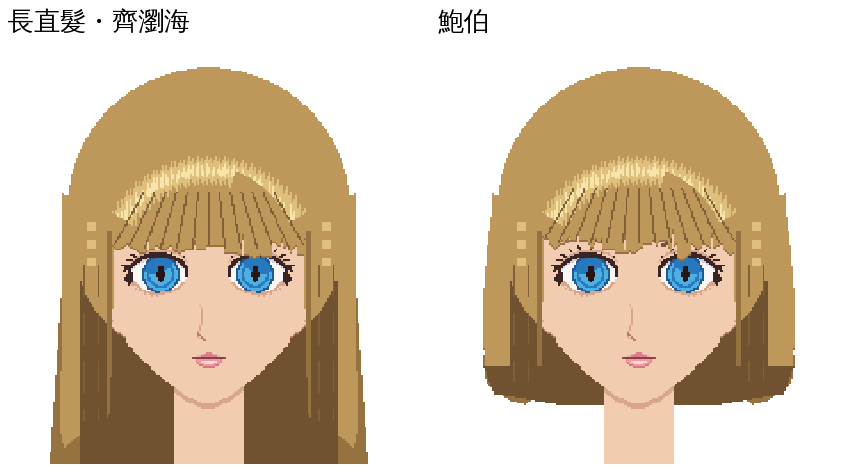
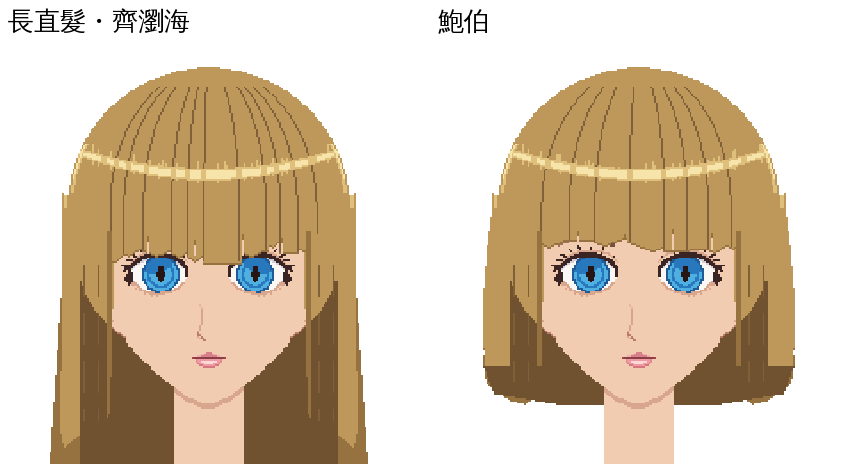
droom 臉模 v2：髮型修正（使用者）——瀏海髮束沿著球的經線從髮旋往下（順著頭的圓弧，分界間隔不一），不再像直的卡牌；反光改成一條細的白色光環：兩端貼著頭髮外緣、中間往下彎、在髮束分界斷開、上下拉出短亮絲，兩端沿外緣往下帶一段；samples/hair_hime_bob.png、hair_hime_zoom.png
Claude-Session: https://claude.ai/code/session_01FDQv7ddy7JMjePn6AqJ3VJ

diff --git a/web/droom/face_mold/v2/hair_one.py b/web/droom/face_mold/v2/hair_one.py
@@ -18,26 +18,36 @@ def arc(r,a0,a1,n=80):return [(CX+r*math.cos(a0+(a1-a0)*k/n),CY+r*math.sin(a0+(a
 RO=R+7
 HS=os.environ.get('HS','hime')   # 髮型：hime 長直髮齊瀏海、bob 鮑伯
 BANG_Y=136 if os.environ.get('HS','hime')!='bob' else 133   # 瀏海下緣（剛好在眼睛上面、蓋到眉毛）
+def mer_x(phi,y):
+  # 經線：髮旋在球頂，phi＝往左右的角度；y 在赤道以上照球面算，赤道以下（瀏海垂下來）就直直往下
+  c=max(-1,min(1,(CY-y)/RO));th=math.acos(c)
+  if y>CY:th=math.pi/2
+  return CX+RO*.96*math.sin(th)*math.sin(math.radians(phi))
+MER=[]
 def regions():
   # 瀏海：頭髮外緣的上半圈，往下到 BANG_Y；兩邊在太陽穴收進去
   top=pm(arc(RO,math.pi*1.06,math.pi*1.94)+[(CX+60,BANG_Y-4),(CX-60,BANG_Y-4)])
   bang=np.zeros((N,N),bool)
-  # 瀏海下緣（使用者：太整齊一樣 → 髮束寬窄不一、長短不一、有的尖有的鈍、偶爾一束特別長或往旁邊撇）
+  # 瀏海（使用者 2026-11-19：頭髮從頭頂的髮旋往下、沿著頭的圓弧，不是像卡牌那樣直的）
+  # 髮束的分界＝球上的經線（從髮旋出發、往兩邊鼓出去再往下），分界的間隔不一樣；
+  # 每兩條經線中間是一束，尾巴有尖有鈍、長短不一
+  global MER
   import random
   rnd=random.Random(7 if HS!='bob' else 11)
-  x=CX-62;tips={}
-  while x<=CX+62:
-    w=rnd.choice([4,5,6,7,8,9,10,12]);L=rnd.choice([0,1,2,3,4,5,6,-1,-2]) if HS=='bob' else rnd.choice([0,1,2,3,4,-1,-2,5])
-    if rnd.random()<.15:L+=4                              # 偶爾一束比較長
-    pointed=rnd.random()<.6;lean=rnd.choice([-1,0,0,1])
-    for i in range(w):
-      if x+i>CX+62:break
-      u=(i+.5)/w                                           # 0～1 在這束裡的位置
-      drop=L+(3*(1-abs(2*u-1-lean*.4)) if pointed else 1.2)   # 尖的：中間最長；鈍的：平
-      tips[x+i]=BANG_Y-2+drop
-    x+=w
+  MER=[];p=-56
+  while p<56:MER.append(p);p+=rnd.choice([7,8,9,10,12,13,15])
+  MER.append(56)
+  tips={}
+  for i in range(len(MER)-1):
+    x0,x1=mer_x(MER[i],BANG_Y),mer_x(MER[i+1],BANG_Y)
+    L=rnd.choice([0,1,2,3,4,5,-1,-2]);L+=4 if rnd.random()<.15 else 0
+    pointed=rnd.random()<.65;lean=rnd.choice([-1,0,0,1])
+    for x in range(int(math.floor(x0)),int(math.ceil(x1))+1):
+      u=(x+.5-x0)/max(1,x1-x0);u=min(1,max(0,u))
+      drop=L+(3.5*(1-abs(2*u-1-lean*.4)) if pointed else 1.2)
+      tips[x]=max(tips.get(x,0),BANG_Y-2+drop)
   for x in range(CX-62,CX+63):
-    tip=tips[x]
+    tip=tips.get(x,BANG_Y-2)
     if abs(x-CX)>52:tip-=int((abs(x-CX)-52)*.9)          # 兩端往上收、接到鬢角
     for y in range(int(CY-RO*0.6),int(tip)):bang[y,x]=True
   cap=pm(arc(RO,math.pi,2*math.pi)+[(CX+RO,CY),(CX-RO,CY)])
@@ -97,32 +107,44 @@ def render(img,stage):
   for x,h in((CX-34,8),(CX-8,6),(CX+19,9),(CX+41,7)):
     for y in range(BANG_Y-h,BANG_Y+3):
       if bangs[y,x]:out[y,x]=(242,204,177) if y>BANG_Y-h+2 else C['sh']
-  # 7 髮絲：從髮旋放射到瀏海下緣、兩側直直往下（暗色細線，只畫中下段，上面讓亮的帶子乾淨）
-  for x in range(CX-54,CX+55,9):
-    for t in np.linspace(.68,1,40):
-      px=round(W[0]+(x-W[0])*t);py=round(W[1]+(BANG_Y-2-W[1])*t)
-      if bangs[py,px] and tuple(out[py,px])==C['mid']:out[py,px]=C['ln']
+  # 7 髮絲：沿著經線（從髮旋順著頭的圓弧往下，到瀏海下緣），只畫中下段
+  for ph in MER[1:-1]:
+    for y in range(int(CY-RO*.86),BANG_Y+6):
+      x=round(mer_x(ph,y))
+      if bangs[y,x] and tuple(out[y,x])==C['mid']:out[y,x]=C['ln']
   for s in(-1,1):
     for x in(CX+s*62,CX+s*70):
       for y in range(140,232 if HS!='bob' else 210):
         if sides[y,x] and (y//9)%3!=0:out[y,x]=C['ln']
-  # 5＋8 亮：頭頂一圈寬的亮帶（光從左上，左邊亮一點），帶子裡再一條條白色高光（天使環，跟著髮束斷開）
-  for y in range(N):
-    for x in range(N):
-      if not bangs[y,x] or y>BANG_Y-6:continue
-      HY=CY+34                                              # 亮帶的圓心往下移（使用者：反光太上面）
-      r=math.hypot(x-CX,y-HY);a=math.degrees(math.atan2(y-HY,x-CX))%360
-      jt=((x*37)%5)-2;jb=((x*53)%5)-2                       # 每一欄上下緣抖一點，不要像髮箍
-      if 49+jb<=r<=62+jt and 210<a<330:
-        # 亮帶（光從左上，左邊寬右邊窄），帶子中間一條條直的白色高光，跟著髮束斷開
-        if a>285 and r<52+(330-a)/9:continue
-        streak=((x*7)//5)%4!=0 and 53+jb//2<=r<=58+jt and (a<300 or (x//3)%2==0)
-        if tuple(out[y,x])==C['ln']:continue
-        out[y,x]=C['hi'] if streak else C['li']
-  for s in(-1,1):                                          # 兩側上段也帶一點亮
-    for y in range(120,150):
-      for x in range(N):
-        if sides[y,x] and abs(x-(CX+s*66))<=2 and (y//5)%2==0:out[y,x]=C['li']
+  # 5＋8 亮（使用者：反光是一條白的、兩邊沿著頭髮的邊緣，不是一塊方塊）：
+  # 一條細的白色光環繞過頭——兩端貼著頭髮外緣、中間往下彎；在髮束分界的地方斷開；上下各一格淡亮；兩端再沿著外緣往下帶一段
+  RY0,RD=CY-34,15
+  ring=lambda x:RY0+RD*(1-((x-CX)/RO)**2)
+  mx=[round(mer_x(ph,ring(CX+RO*.96*math.sin(math.radians(ph))))) for ph in MER]
+  for x in range(CX-RO,CX+RO+1):
+    yc=ring(x);w=1+1.6*(1-abs(x-CX)/RO)            # 中間粗、兩邊細
+    for y in range(int(yc-w-1),int(yc+w+2)):
+      if not (0<=y<N) or not (bangs[y,x] or sides[y,x]):continue
+      d=abs(y-yc)
+      gap=any(abs(x-m)<=1 for m in mx)
+      if d<=w and not gap:out[y,x]=C['hi']
+      elif d<=w+1.2 and tuple(out[y,x])!=C['hi']:out[y,x]=C['li']
+  import random
+  rr=random.Random(3)
+  for x in range(CX-RO+6,CX+RO-5):                          # 光環上下拉出幾條短短的亮絲（順著髮束），看起來不是一條死板的帶子
+    if rr.random()<.28 and not any(abs(x-m)<=1 for m in mx):
+      yc=ring(x);up=rr.randint(2,5);dn=rr.randint(1,4)
+      for y in range(int(yc-up-1),int(yc+dn+2)):
+        if 0<=y<N and (bangs[y,x] or sides[y,x]) and tuple(out[y,x])!=C['hi']:out[y,x]=C['li']
+  for s in(-1,1):                                          # 兩端沿著頭髮外緣往下帶一段亮
+    for y in range(int(RY0)-2,int(RY0)+34):
+      row=bangs[y]|sides[y]
+      xs=[x for x in range(N) if row[x]]
+      if not xs:continue
+      xe=max(xs) if s>0 else min(xs)
+      for k in(1,2):
+        x=xe-s*k
+        if row[x]:out[y,x]=C['hi'] if (k==1 and y<RY0+18) else C['li']
   return out
 if __name__=='__main__':
   D=sys.argv[1];img=np.array(Image.open(f'{D}/front_f.png').convert('RGB'))
